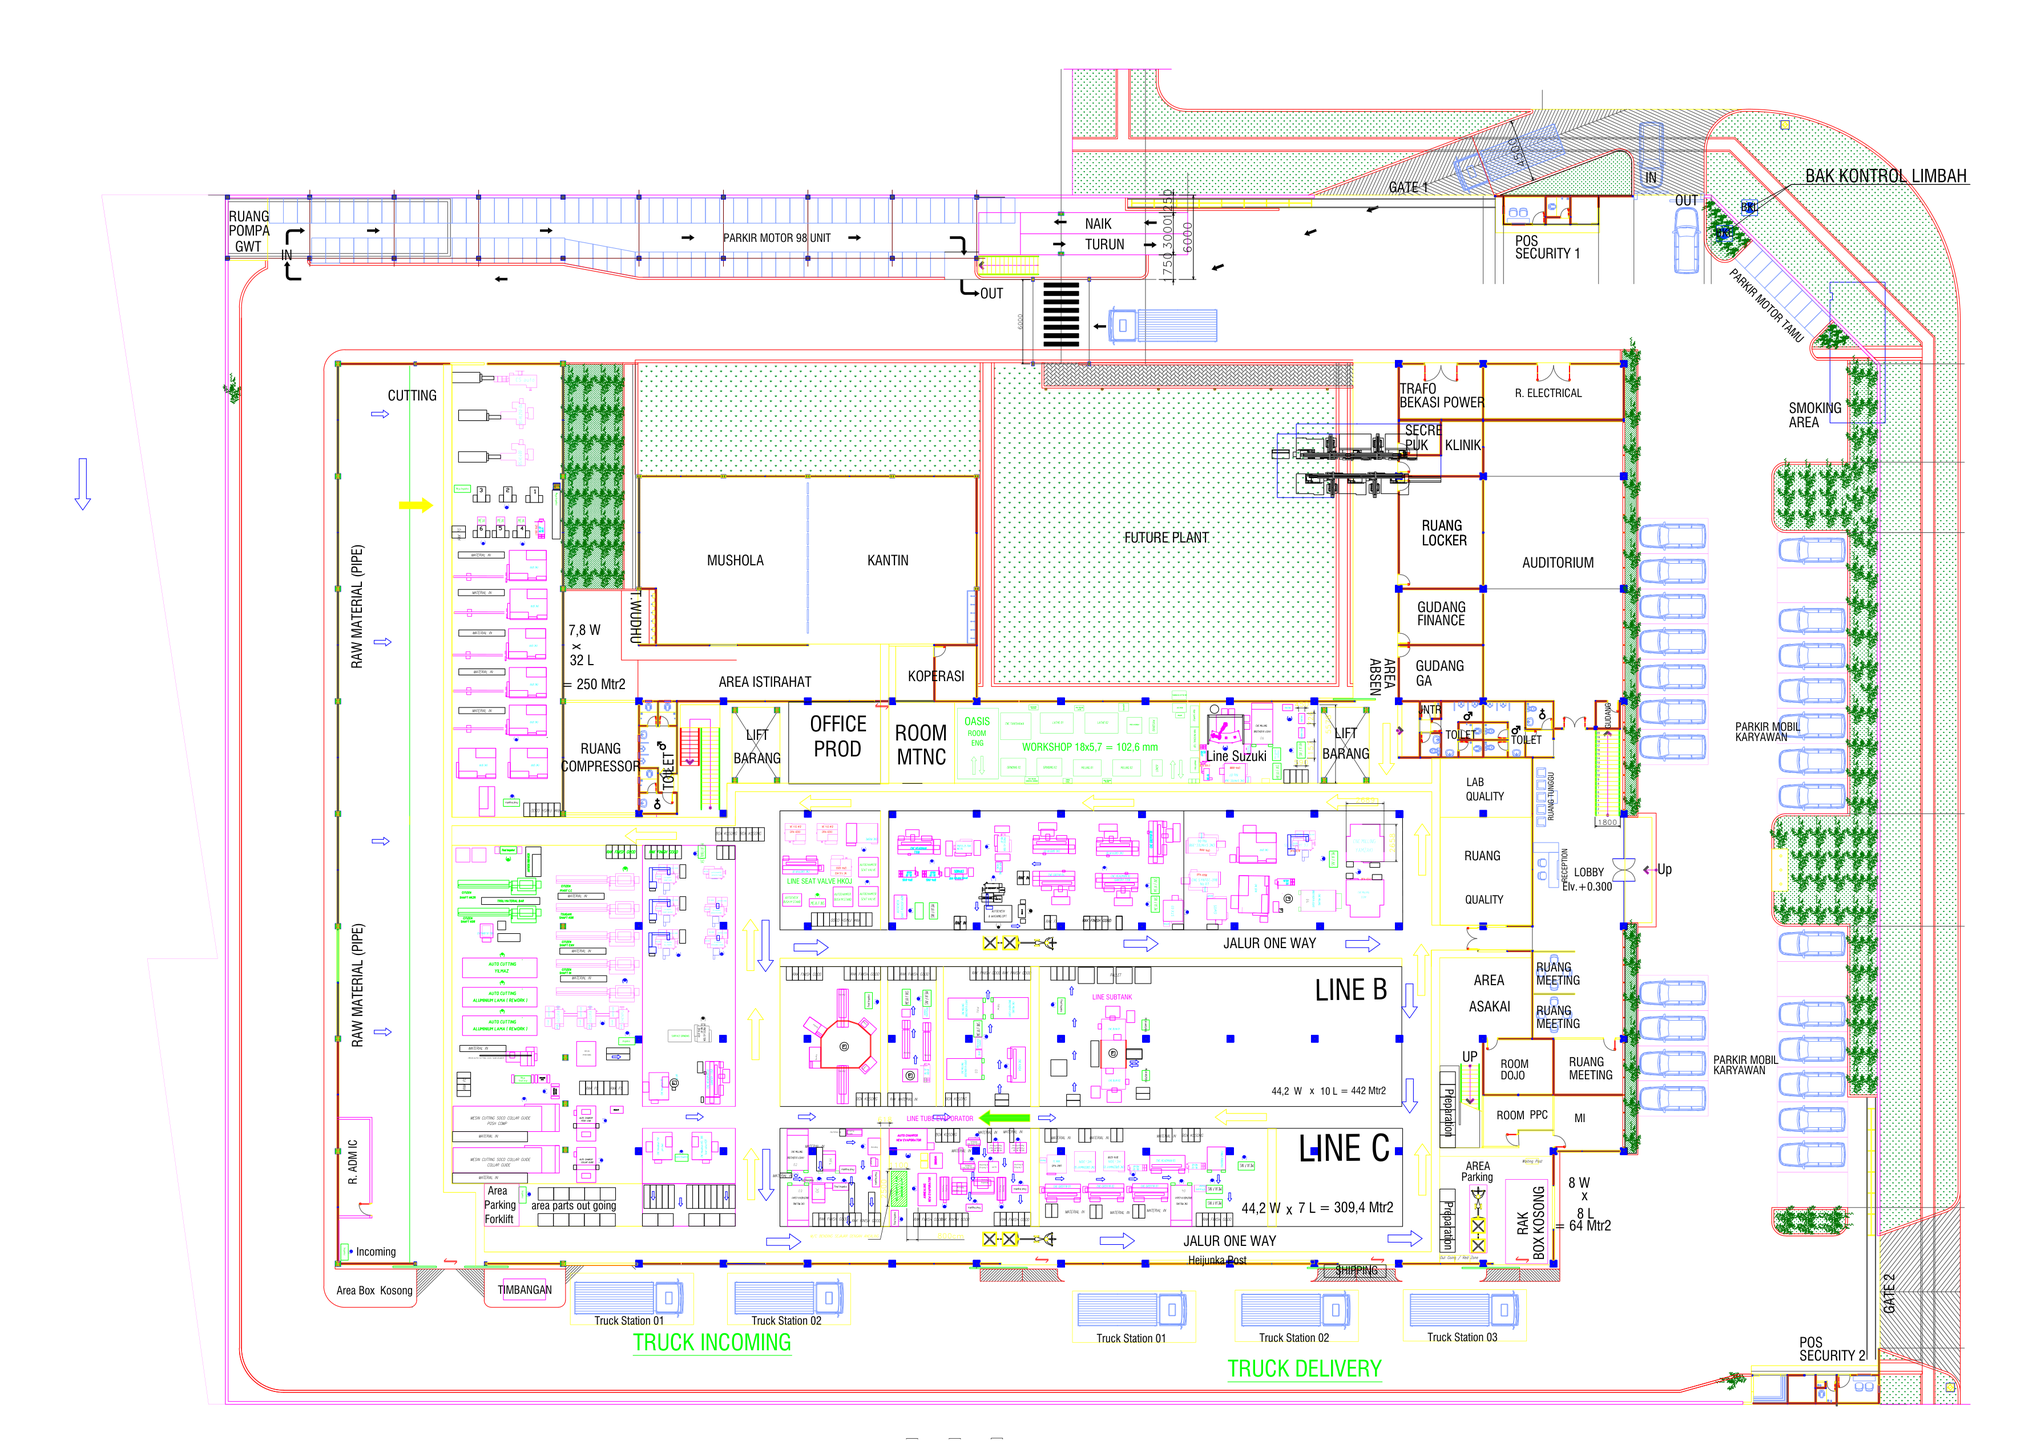
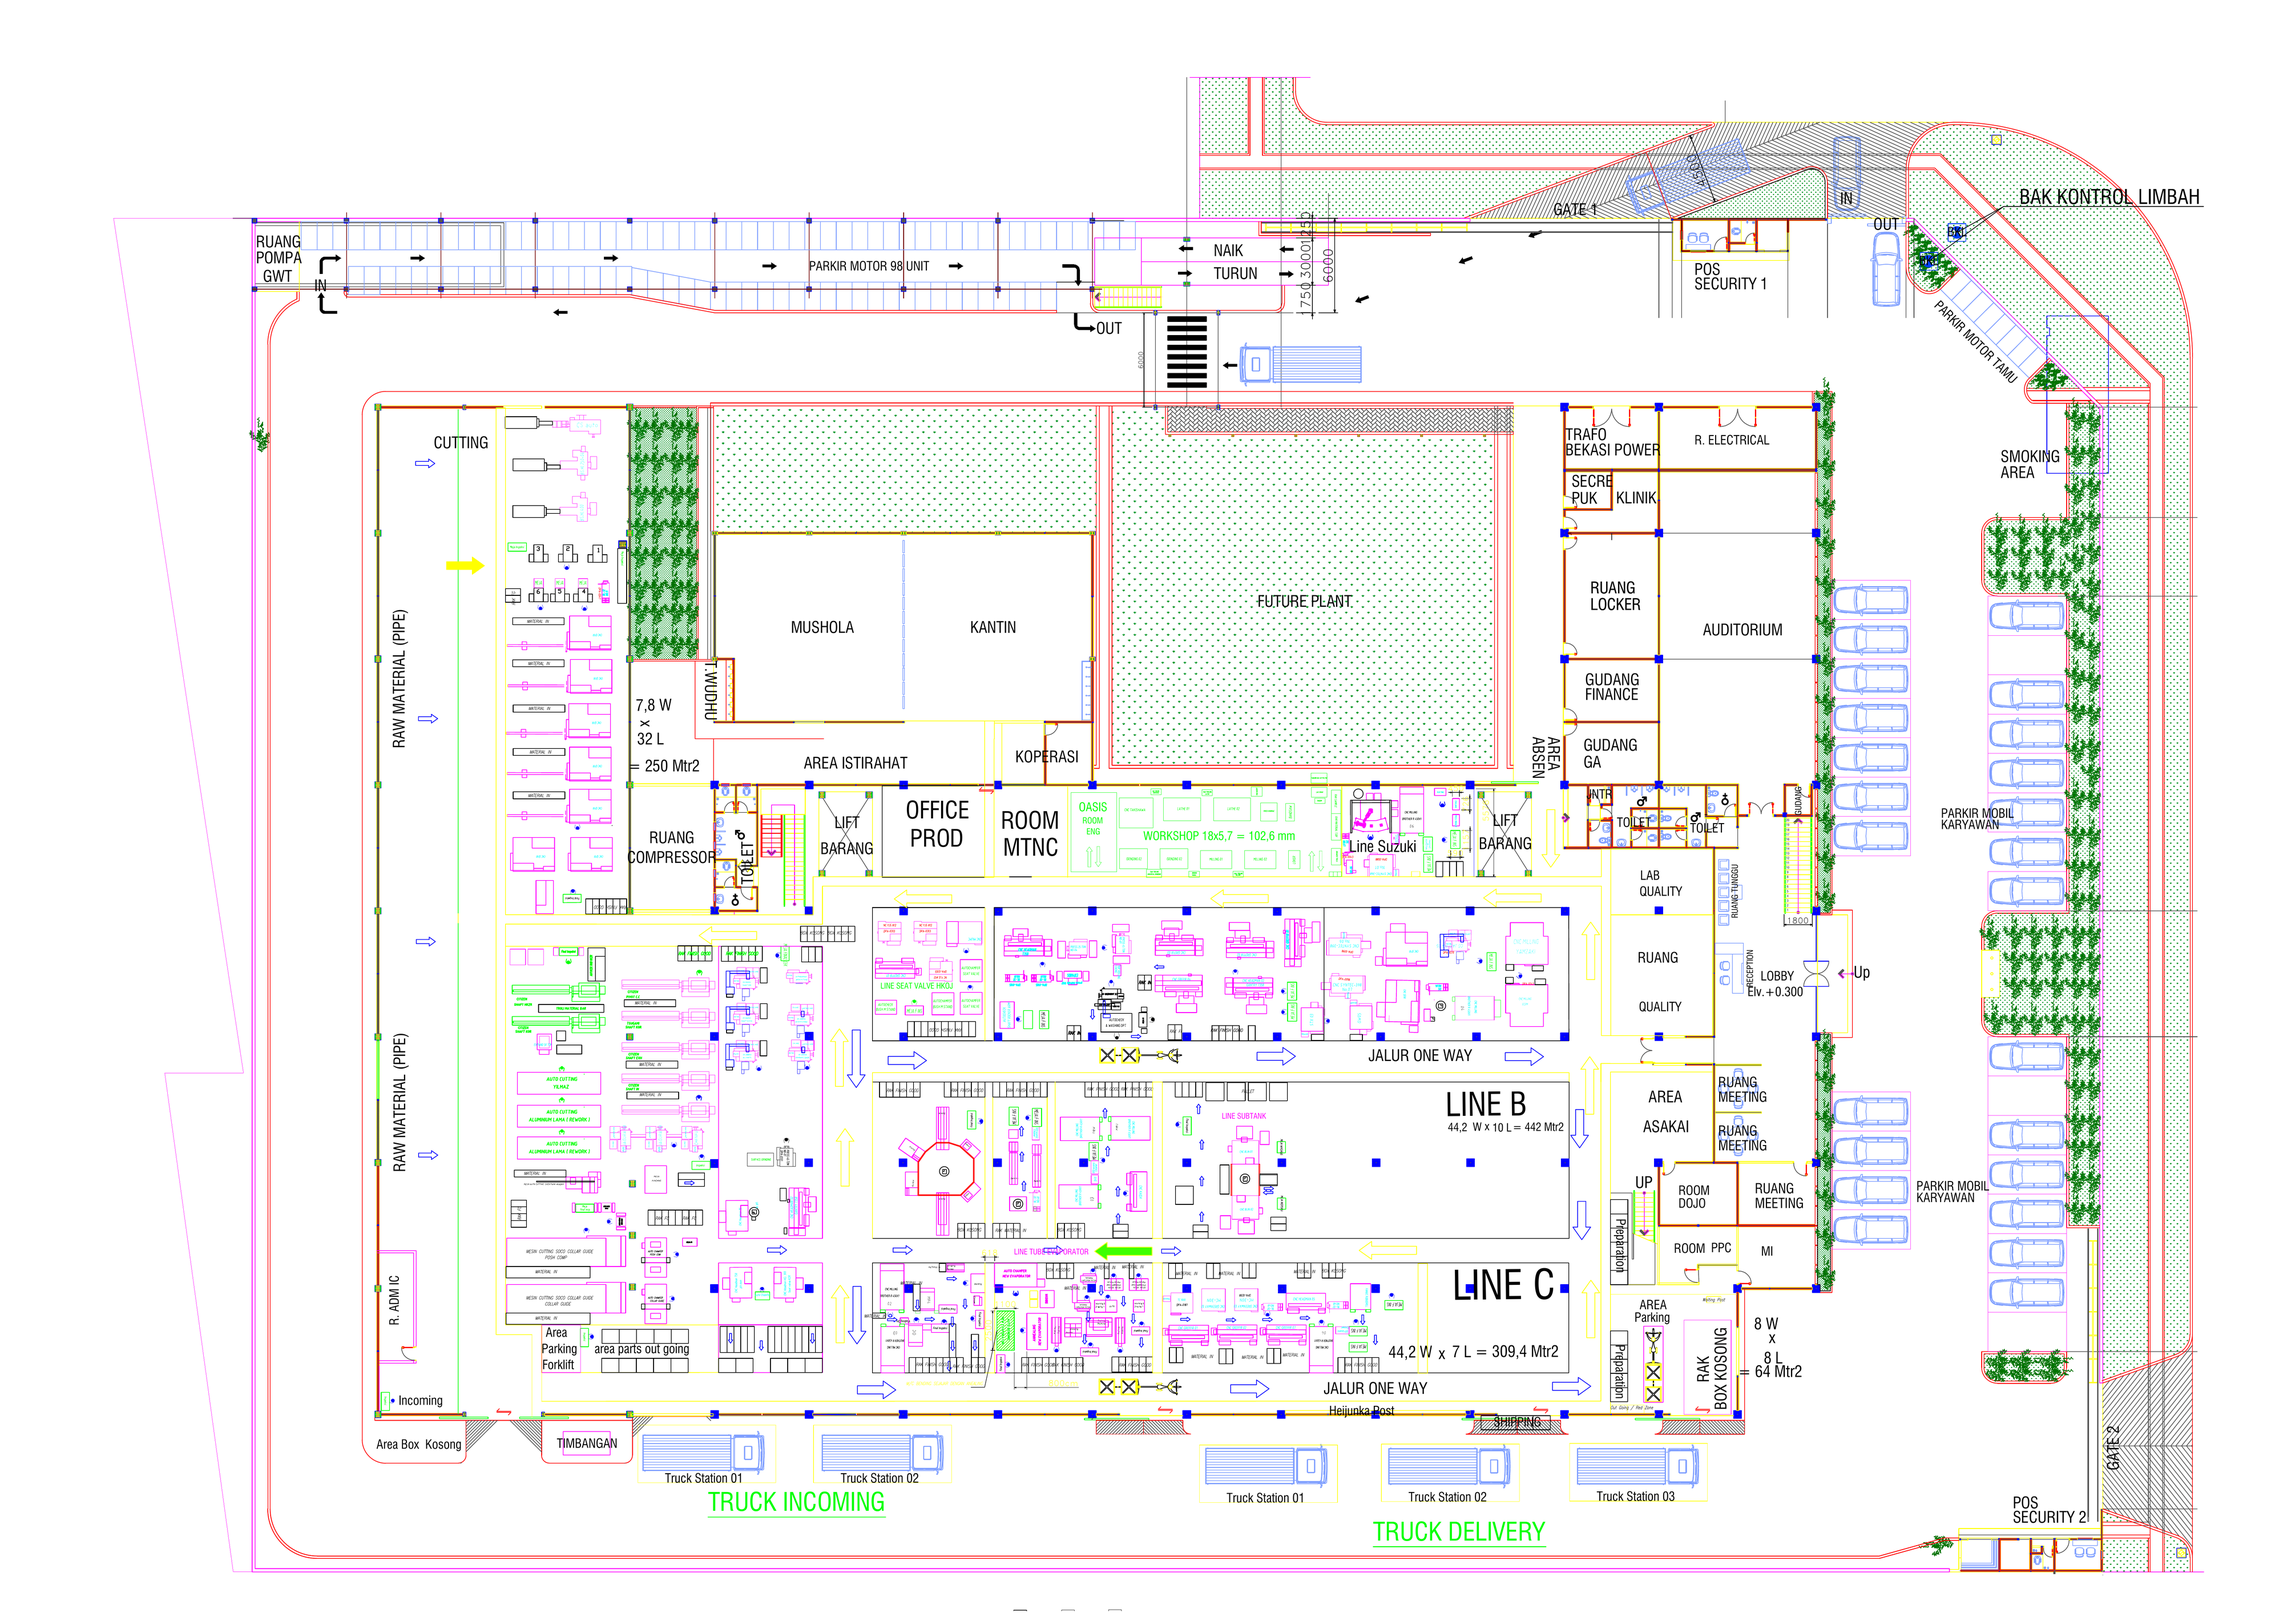
Add reset button and update dashboard layout

diff --git a/static/app.js b/static/app.js
@@ -67,12 +67,49 @@ function renderBoard(){
     items.forEach(d=>{
       const cls=statusClass(d.status), card=document.createElement('article');
       card.className=`card ${cls} ${cls!=='normal'?'status-pulse':''}`;
-      card.innerHTML=`<h3>${esc(d.department)}</h3><span class="badge">${esc(displayStatus(d.status))}</span>`;
+      card.innerHTML=`<h3>${esc(d.department)}</h3>
+        <div class="card-status-row">
+          <span class="badge">${esc(displayStatus(d.status))}</span>
+          <button class="reset-line-btn" type="button" title="Reset ${esc(d.department)} menjadi normal" data-reset-id="${d.id}">↻ RESET</button>
+        </div>`;
+      card.querySelector('.reset-line-btn')?.addEventListener('click',()=>resetLine(d.id));
       cards.appendChild(card);
     });
     board.appendChild(section);
   });
 }
+async function resetLine(id){
+  const d=departments.find(x=>Number(x.id)===Number(id));
+  if(!d)return;
+  if(displayStatus(d.status)===STATUS.NORMAL)return;
+
+  const buttons=document.querySelectorAll(`[data-reset-id=\"${id}\"]`);
+  buttons.forEach(b=>{b.disabled=true;b.textContent='RESET...';});
+  try{
+    const r=await fetch(`/api/lora/command/${id}`,{
+      method:'POST',
+      headers:{'Content-Type':'application/json'},
+      body:JSON.stringify({command:'RESET'})
+    });
+    const data=await r.json();
+    if(!r.ok)throw new Error(data.error||'Gagal reset line');
+
+    // Update lokal lebih dulu agar warna line langsung berubah hijau tanpa menunggu polling.
+    d.status=STATUS.NORMAL;
+    d.priority='Normal';
+    d.issue=null;
+    renderBoard();
+    renderLayout();
+    renderKpi();
+    await loadHistory();
+  }catch(e){
+    alert(`Gagal reset ${d.department}: ${e.message}`);
+    buttons.forEach(b=>{b.disabled=false;b.textContent='↻ RESET';});
+  }
+}
+
+window.resetLine=resetLine;
+
 function renderLayout(){
   const markers=document.getElementById('markers'); if(!markers)return;
   markers.innerHTML='';

diff --git a/static/style.css b/static/style.css
@@ -51,8 +51,12 @@ main{padding:20px 32px 30px}
 .card.danger{background:var(--red);color:#fff;--pulse-color:var(--red)}
 .card.warning{background:var(--amber);color:#1a1000;--pulse-color:var(--amber)}
 .card.quality{background:var(--blue);color:#fff;--pulse-color:var(--blue)}
-.card h3{margin:0 0 22px;font-size:18px}
+.card h3{margin:0 0 14px;font-size:18px}
+.card-status-row{display:flex;align-items:center;justify-content:space-between;gap:8px;flex-wrap:wrap}
 .badge{display:inline-block;border-radius:18px;padding:7px 12px;background:rgba(0,0,0,.14);font-size:13px;font-weight:800}
+.reset-line-btn{appearance:none;border:1px solid rgba(255,255,255,.55);background:rgba(0,0,0,.18);color:inherit;border-radius:8px;padding:7px 10px;font-size:10px;font-weight:900;letter-spacing:.6px;cursor:pointer;transition:.18s;white-space:nowrap}
+.reset-line-btn:hover{background:rgba(255,255,255,.18);transform:translateY(-1px)}
+.reset-line-btn:disabled{opacity:.65;cursor:wait;transform:none}
 
 /* Pulse hanya untuk Machine, Material, Quality. Normal tidak pulse. */
 .status-pulse{animation:cardPulse 1.1s ease-out infinite}

diff --git a/templates/index.html b/templates/index.html
@@ -10,7 +10,7 @@
 <header class="topbar">
   <div>
     <div class="company">PT. DHARMA PRECISION PARTS</div>
-    <h1>ANDON BOARD — {% if mode == 'settings' %}SETTING{% else %}STATUS CLUSTER PRODUKSI{% endif %}</h1>
+    <h1>ANDON BOARD — {% if mode == 'settings' %}SETTING{% else %}MONITARING MAINTENANCE{% endif %}</h1>
   </div>
   <div class="top-actions">
     <div class="login-user">LOGIN: {{ session.get("username", "user") }} <a href="/logout">LOGOUT</a></div>
